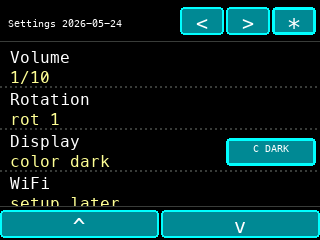
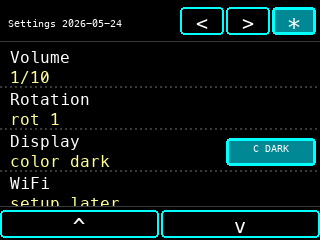
Set color dark startup default 20260524-085635-EDT

Changed region(s): [[0.0, 0.875, 1.0, 0.9917], [0.5625, 0.0292, 0.8438, 0.1458]]

diff --git a/tools/render_display_mode_mock.py b/tools/render_display_mode_mock.py
@@ -41,7 +41,11 @@ PALETTES = {
         "title": "Color Dark",
         "mode_value": "color dark",
         "button_fill": MAIN["cyan_dark"],
+        "button_active_fill": MAIN["cyan_dark"],
+        "button_inactive_fill": MAIN["bg"],
         "button_outline": MAIN["cyan"],
+        "button_active_text": MAIN["text"],
+        "button_inactive_text": MAIN["text"],
         "row_line": MAIN["grid"],
         "inactive": MAIN["grid"],
         "label_text": MAIN["text"],
@@ -66,7 +70,11 @@ PALETTES = {
         "red_dark": (120, 0, 0),
         "signal_yellow": (190, 135, 0),
         "button_fill": (225, 250, 255),
+        "button_active_fill": (225, 250, 255),
+        "button_inactive_fill": (0, 0, 255),
         "button_outline": (0, 92, 180),
+        "button_active_text": (0, 0, 0),
+        "button_inactive_text": (255, 255, 255),
         "row_line": (0, 0, 0),
         "inactive": (150, 150, 150),
         "label_text": (0, 0, 0),
@@ -91,7 +99,11 @@ PALETTES = {
         "red_dark": (0, 0, 0),
         "signal_yellow": (255, 255, 255),
         "button_fill": (0, 0, 0),
+        "button_active_fill": (0, 0, 0),
+        "button_inactive_fill": (0, 0, 0),
         "button_outline": (255, 255, 255),
+        "button_active_text": (255, 255, 255),
+        "button_inactive_text": (255, 255, 255),
         "row_line": (255, 255, 255),
         "inactive": (255, 255, 255),
         "label_text": (255, 255, 255),
@@ -116,7 +128,11 @@ PALETTES = {
         "red_dark": (255, 255, 255),
         "signal_yellow": (0, 0, 0),
         "button_fill": (255, 255, 255),
+        "button_active_fill": (255, 255, 255),
+        "button_inactive_fill": (255, 255, 255),
         "button_outline": (0, 0, 0),
+        "button_active_text": (0, 0, 0),
+        "button_inactive_text": (0, 0, 0),
         "row_line": (0, 0, 0),
         "inactive": (0, 0, 0),
         "label_text": (0, 0, 0),
@@ -166,14 +182,16 @@ def draw_dotted_line(draw, start, end, fill, step=5, thickness=1):
 
 def draw_button(draw, x, y, w, label, p, active=False):
     width = 3 if active else 2
+    fill = p["button_active_fill"] if active else p["button_inactive_fill"]
+    text = p["button_active_text"] if active else p["button_inactive_text"]
     draw.rounded_rectangle(
         (x, y, x + w - 1, y + TOOLBAR_BUTTON_HEIGHT - 1),
         radius=4,
-        fill=p["button_fill"],
+        fill=fill,
         outline=p["button_outline"],
         width=width,
     )
-    draw_centered(draw, label, x, y + 4, w, FONT_2 if len(label) <= 2 else FONT_1, p["text"])
+    draw_centered(draw, label, x, y + 4, w, FONT_2 if len(label) <= 2 else FONT_1, text)
 
 
 def draw_nav(draw, width, p):

diff --git a/tools/check_app_shell.py b/tools/check_app_shell.py
@@ -81,6 +81,7 @@ if missing_nav_layout:
     raise SystemExit("App nav is not attached to rotate button")
 
 required_large_controls = {
+    "DisplayMode displayMode = DISPLAY_COLOR_DARK;": "Default startup display mode is not color dark on black",
     "#define TOOLBAR_BUTTON_WIDTH 44": "toolbar buttons are not double-width",
     "#define TOOLBAR_BUTTON_HEIGHT 28": "toolbar buttons are not one-quarter taller",
     "#define APP_BUTTON_WIDTH TOOLBAR_BUTTON_WIDTH": "app nav width does not match toolbar width",
@@ -98,6 +99,7 @@ required_large_controls = {
     "drawSettingsDisplayModeControl": "Settings screen is missing display mode control",
     "handleSettingsDisplayModeTouch": "Settings screen is missing display mode touch handling",
     "displayValueTextColor": "Settings value text is not separately colorable",
+    "COLOR_LIGHT_NAV_FILL": "Color light app nav buttons are missing a high-contrast inactive fill",
 }
 for token, message in required_large_controls.items():
     if token not in source:

diff --git a/CODEX_HANDOFF.md b/CODEX_HANDOFF.md
@@ -37,11 +37,13 @@ The current branch wraps the one-screen Pulse dashboard in a small app shell:
 - Volume is Settings-only and no longer appears in the top toolbar.
 - Rotation is Settings-only and no longer appears as a persistent top-toolbar button.
 - App navigation remains persistent as a three-button previous/next/Settings nav bar, with mode-aware outlines/fills and no top-toolbar rotate button.
-- Firmware version for this branch: `0.4.0-display-modes`.
+- Firmware version for this branch: `0.4.1-color-dark-start`.
 - Firmware date shown in Settings: `2026-05-24`.
 - Guard script: `python3 tools/check_app_shell.py`.
 
 2026-05-24 display-mode continuation: added Settings `Display` cycling through `M DARK`, `M LIGHT`, `C DARK`, and `C LIGHT`. `M DARK`/`M LIGHT` are true monochrome treatments. `C DARK` preserves the main dark color family, and `C LIGHT` is a high-contrast light color treatment with blue values/search trace, amber searching accents, cyan/teal locked outlines, and green locked SIG bars. The top nav bar was also changed to the compact three-button previous/next/Settings layout, with rotation moved fully into Settings and the freed header space used for the centered fat heart. Render review files live in `docs/screenshots/display-mode-render/review-20260524-display-modes-v2/`; monochrome black/white review files live in `docs/screenshots/monochrome-render/`.
+
+2026-05-24 08:56:35 EDT display-mode hardware follow-up: changed startup default to the black-background `C DARK` mode, bumped Settings version text to `0.4.1-color-dark-start`, and gave `C LIGHT` inactive app-nav/Settings button cells a dark blue fill with white text so the cells contrast against the white app background. `tools/check_app_shell.py` now tracks the default mode and light-mode nav-fill requirements.
 
 2026-05-24 continuation: the compact toolbar hit testing was tuned for real CYD touch ergonomics. App nav and rotate still look grouped, but their padded tap regions are now split at the midpoint between adjacent button centers, preventing the previous overlap where taps near rotate could be claimed by Settings or taps near nav boundaries could choose the earlier button. The same midpoint approach is used for the Settings color swatches.
 

diff --git a/START_HERE_NEXT_CHAT.md b/START_HERE_NEXT_CHAT.md
@@ -29,11 +29,13 @@ The branch adds an app shell around the Pulse dashboard:
 - Rotation now lives in Settings only; the persistent top rotate button was removed.
 - App navigation remains persistent as a three-button previous/next/Settings nav bar, with mode-aware outlines/fills and no top-bar rotate control.
 - Display mode cycles through `M DARK`, `M LIGHT`, `C DARK`, and `C LIGHT`.
-- Firmware version is `0.4.0-display-modes`.
+- Firmware version is `0.4.1-color-dark-start`.
 - Firmware date shown in Settings is `2026-05-24`.
 - Guard script: `python3 tools/check_app_shell.py`.
 
 2026-05-24 display-mode note: render-only design review files live in `docs/screenshots/display-mode-render/review-20260524-display-modes-v2/` and `docs/screenshots/monochrome-render/`. The approved direction before local hardware test: Settings row labels and values use distinct colors in color modes, `C LIGHT` is a high-contrast color-light treatment, the app nav bar is the compact three-button previous/next/Settings treatment, and the fat heart sits in the header gap between `PulseSensor.com` and the app nav.
+
+2026-05-24 08:56:35 EDT hardware/UI follow-up: startup now defaults to the black-background `C DARK` color display mode instead of `M DARK`. `C LIGHT` inactive app navigation and Settings button cells now use a dark blue high-contrast fill with white text so button backgrounds remain distinct from the white app background. Tracking guard `tools/check_app_shell.py` now asserts both preferences.
 
 2026-05-24 hardware note: the app-shell firmware was built and flashed to `/dev/cu.usbserial-3120` on the connected ESP32-D0WD-V3 CYD, MAC `f4:65:0b:a9:f2:e8`. Touch ergonomics fixes changed compact toolbar routing to split adjacent app-nav/rotate hit targets at their midpoints, enlarged the visible app-nav and rotate controls from 22x22 to 44x28, converted Settings to a scrollable large-text row list with bigger row-local touch controls, widened Settings bottom scroll buttons to split the full bottom bar, changed Settings rows to alternating yellow/green Pulse dashboard backgrounds with black text, and redesigned App 1 metric tiles to use the same yellow/green high-contrast language.
 

diff --git a/CHANGELOG.md b/CHANGELOG.md
@@ -1,6 +1,7 @@
 # CYD App Launcher — Student Version — Changelog
 
 ## Unreleased
+- 2026-05-24 08:56:35 EDT monochrome UI branch: changed the startup default to the black-background `C DARK` display mode, bumped firmware version to `0.4.1-color-dark-start`, and gave `C LIGHT` inactive navigation/button cells a dark blue high-contrast fill with white text so they no longer disappear into the white app background.
 - 2026-05-24 monochrome UI branch: added firmware display modes `M DARK`, `M LIGHT`, `C DARK`, and `C LIGHT` under Settings `Display`, moved rotation to Settings-only, removed the top-bar rotate button, and bumped firmware version to `0.4.0-display-modes` for local hardware color-scheme testing.
 - 2026-05-24 monochrome UI branch: updated the persistent app nav bar to the three-button previous/next/Settings layout, with mode-aware monochrome/color outlines and no top-bar rotate control, leaving more header room for the centered fat heart.
 - 2026-05-24 monochrome UI branch: expanded the README with an internal visual design-memory section showing the display-mode contact sheet, Settings picker variants, Pulse searching/locked variants, and true black/white exploration images.
